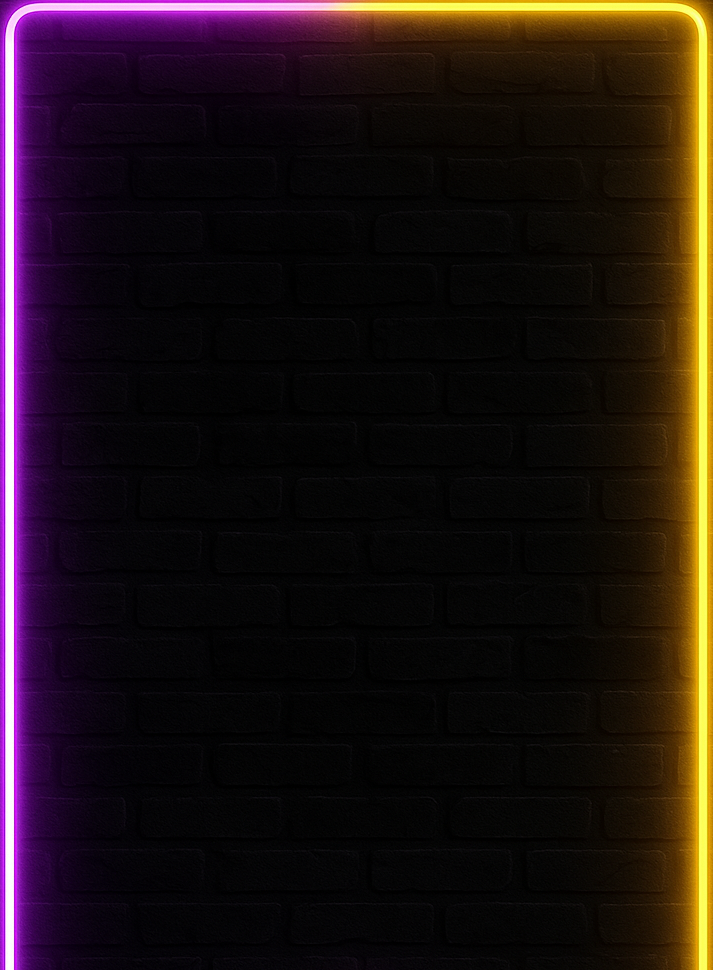
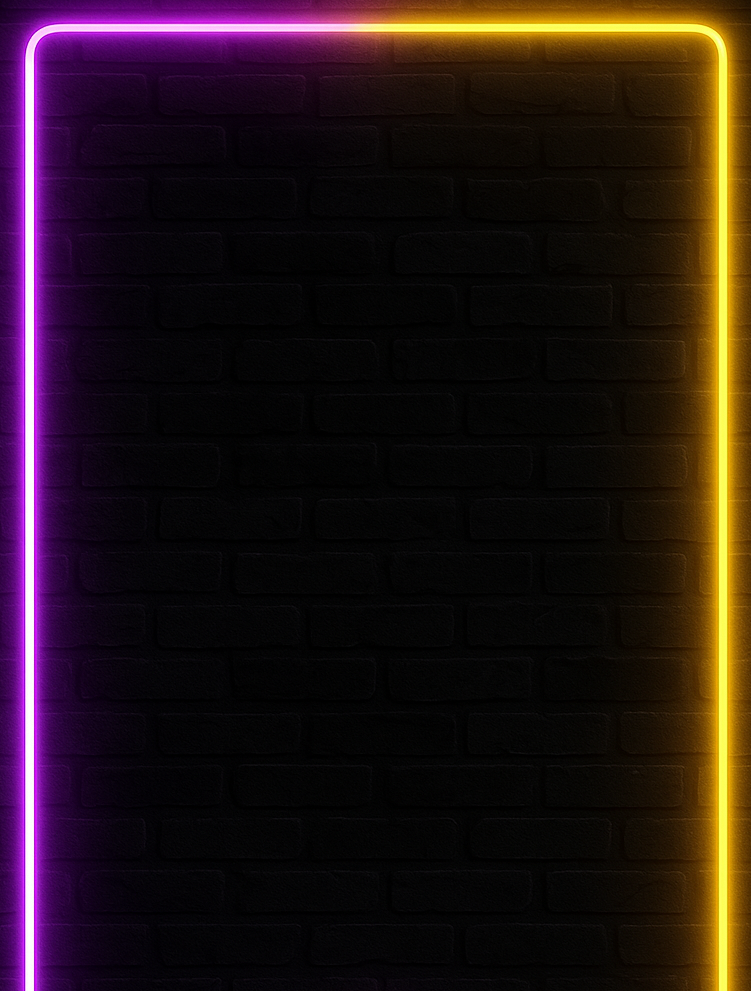
added new backgrounds and adjusted bootstrap flex on main content

Changed region(s): [[0.0, 0.0, 1.0, 1.0]]

diff --git a/index.html b/index.html
@@ -39,7 +39,8 @@
     </div>
   </div>
 <!-- LS - Jumbotron -->
-  <div id="main-content" class="container">
+ <div class="d-flex flex-column align-items-center m-5">
+  <div id="main-content" class="container m-5">
     <div id="logo-background" class="p-1 rounded mb-4 text-center">
       <img src="assets/images/pubtastic-logo.jpg" id="pub-logo-small" alt="Quiz Logo" class="img-fluid mb-3">
     </div>
@@ -75,6 +76,7 @@
       <!-- Results will be injected here -->
     </tbody>
   </table>
+</div>
 </div>
   
   </div>

diff --git a/assets/css/main.css b/assets/css/main.css
@@ -1,6 +1,6 @@
 body {
   font-family: Arial, sans-serif;
-  background: #f4f4f4 url('../images/neon-bg.png') top center / cover no-repeat fixed;
+  background: #f4f4f4 url('../images/neon-bg-sides.png') top center / cover no-repeat fixed;
   margin: 0;
   padding: 0;
 }
